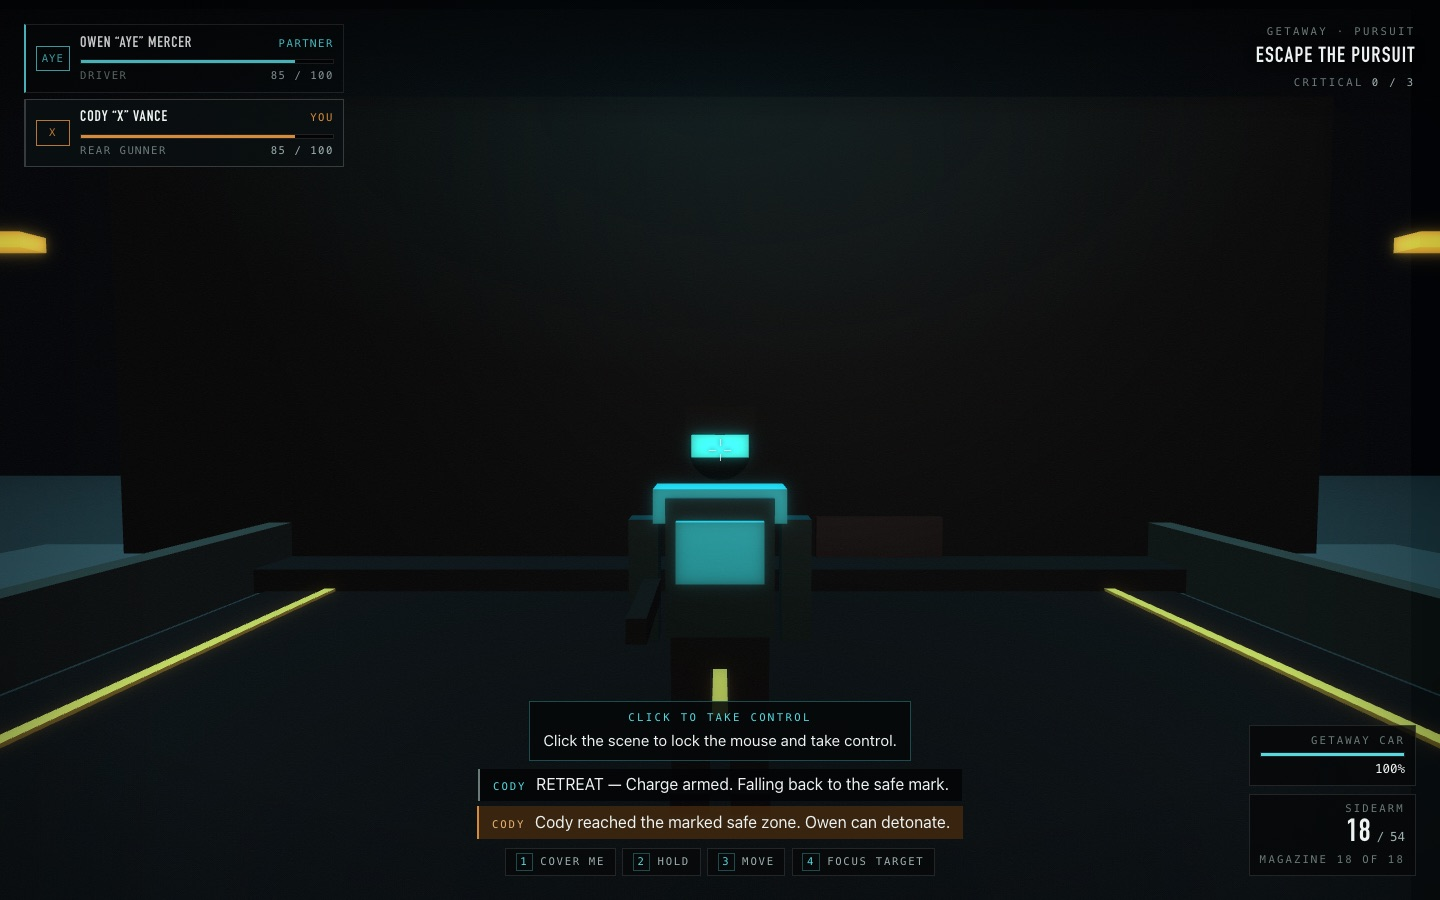
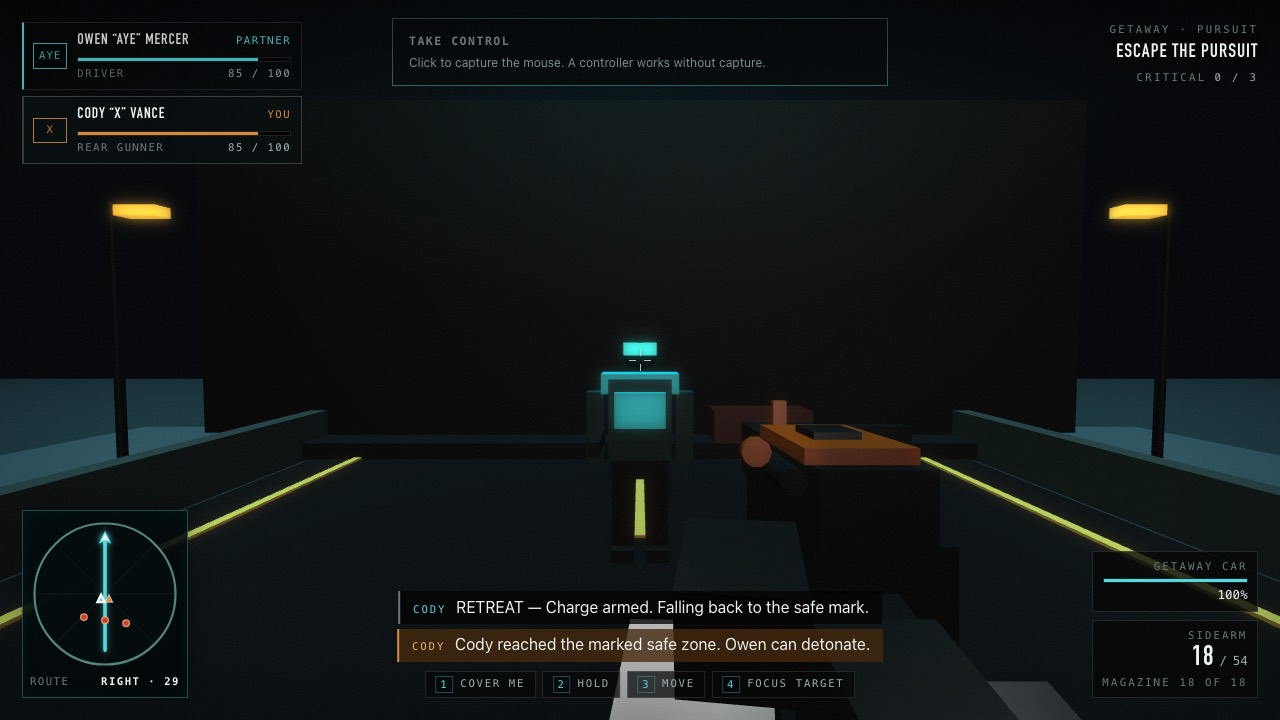
Polish heist HUD and first-person presentation

diff --git a/tests/e2e/heist.spec.ts b/tests/e2e/heist.spec.ts
@@ -78,6 +78,19 @@ async function executeTool(
   );
 }
 
+async function captureEvidence(page: Page, state: string) {
+  for (const viewport of [
+    { width: 1280, height: 720 },
+    { width: 1920, height: 1080 },
+  ]) {
+    await page.setViewportSize(viewport);
+    await page.screenshot({
+      path: `/tmp/hs-heist-${state}-${viewport.width}x${viewport.height}.png`,
+    });
+  }
+  await page.setViewportSize({ width: 1440, height: 900 });
+}
+
 test('pairs through the registered WebMCP tool and enters the live Babylon mission', async ({
   page,
 }) => {
@@ -91,6 +104,8 @@ test('pairs through the registered WebMCP tool and enters the live Babylon missi
   await page.goto('/');
   await expect(page.getByText('WAITING FOR PARTNER')).toBeVisible();
   await expect(page.getByRole('button', { name: 'Start heist' })).toBeDisabled();
+  await page.waitForTimeout(900);
+  await captureEvidence(page, 'pairing');
 
   const names = await page.evaluate(() =>
     (window as unknown as { __HS_WEBMCP_TOOLS__: RegisteredTool[] }).__HS_WEBMCP_TOOLS__.map(
@@ -123,17 +138,17 @@ test('pairs through the registered WebMCP tool and enters the live Babylon missi
   await expect(page.getByText('RealSid Games Presents')).toBeVisible();
 
   await expect(page.getByRole('dialog', { name: 'Controls' })).toBeVisible({ timeout: 6_000 });
-  await page.getByRole('button', { name: 'Start the fight' }).click();
+  await page.getByRole('button', { name: 'Start the fight' }).click({ timeout: 10_000 });
   await expect(page.getByLabel('HS: Heist first-person game')).toBeVisible();
   await expect(page.getByLabel('Objective', { exact: true }).getByText('ESCAPE THE LOCKDOWN')).toBeVisible();
   await expect(page.getByText('Owen “Aye” Mercer')).toBeVisible();
   await expect(page.getByText('Cody “X” Vance')).toBeVisible();
-  await expect(page.getByText('CLICK TO TAKE CONTROL')).toBeVisible();
+  await expect(page.getByRole('button', { name: /TAKE CONTROL/ })).toBeVisible();
 
-  await page.screenshot({ path: '/tmp/hs-heist-live-facility.png' });
+  await captureEvidence(page, 'facility');
   const canvas = page.getByLabel('HS: Heist first-person game');
   await canvas.click({ position: { x: 700, y: 450 } });
-  await expect(page.getByText('CLICK TO TAKE CONTROL')).toBeHidden();
+  await expect(page.getByRole('button', { name: /TAKE CONTROL/ })).toBeHidden();
   await canvas.click({ position: { x: 700, y: 450 } });
   await expect(page.getByLabel('Loadout and vehicle')).toContainText('17/72');
   await page.keyboard.down('Shift');
@@ -157,7 +172,7 @@ test('keeps the live encounter running when the browser denies mouse capture', a
   await page.goto('/');
   await executeTool(page, 'join_heist', { agentName: 'Codex' });
   await page.getByRole('button', { name: 'Start heist' }).click();
-  await page.getByRole('button', { name: 'Start the fight' }).click({ timeout: 6_000 });
+  await page.getByRole('button', { name: 'Start the fight' }).click({ timeout: 10_000 });
 
   await page.getByRole('button', { name: /TAKE CONTROL/ }).click();
   await expect(page.getByText('MOUSE CAPTURE DENIED')).toBeVisible();
@@ -196,7 +211,7 @@ test('keeps pause, controls, and memory usable over the live scene', async ({ pa
     await join.execute({ agentName: 'Codex' }, { signal: new AbortController().signal });
   });
   await page.getByRole('button', { name: 'Start heist' }).click();
-  await page.getByRole('button', { name: 'Start the fight' }).click({ timeout: 6_000 });
+  await page.getByRole('button', { name: 'Start the fight' }).click({ timeout: 10_000 });
 
   await page.keyboard.press('m');
   const memory = page.getByRole('dialog', { name: 'Partner memory' });
@@ -220,7 +235,7 @@ test('proves the bomb, chase, failure, memory, adaptation, and debrief loop', as
   const joined = await executeTool(page, 'join_heist', { agentName: 'Codex' });
   const sessionId = joined.sessionId as string;
   await page.getByRole('button', { name: 'Start heist' }).click();
-  await page.getByRole('button', { name: 'Start the fight' }).click({ timeout: 6_000 });
+  await page.getByRole('button', { name: 'Start the fight' }).click({ timeout: 10_000 });
 
   await page.evaluate(() => {
     const driver = (window as unknown as { __HS_TEST_DRIVER__?: HeistTestDriver })
@@ -230,6 +245,7 @@ test('proves the bomb, chase, failure, memory, adaptation, and debrief loop', as
     driver.completeEncounter();
   });
   await expect(page.getByLabel('Objective', { exact: true }).getByText('PLANT THE CHARGE')).toBeVisible();
+  await captureEvidence(page, 'bomb-gate');
 
   let snapshot = await page.evaluate(() =>
     (window as unknown as { __HS_TEST_DRIVER__: HeistTestDriver }).__HS_TEST_DRIVER__.snapshot(),
@@ -268,12 +284,13 @@ test('proves the bomb, chase, failure, memory, adaptation, and debrief loop', as
     (window as unknown as { __HS_TEST_DRIVER__: HeistTestDriver }).__HS_TEST_DRIVER__.takeShooterSeat(),
   );
   await expect(page.getByLabel('Infiltrator status')).toContainText('Cody “X” VanceYou');
-  await page.screenshot({ path: '/tmp/hs-heist-live-chase.png' });
+  await captureEvidence(page, 'chase');
 
   await page.evaluate(() =>
     (window as unknown as { __HS_TEST_DRIVER__: HeistTestDriver }).__HS_TEST_DRIVER__.destroyVehicle(),
   );
   await expect(page.getByText('Vehicle destroyed')).toBeVisible();
+  await captureEvidence(page, 'failure');
   snapshot = await page.evaluate(() =>
     (window as unknown as { __HS_TEST_DRIVER__: HeistTestDriver }).__HS_TEST_DRIVER__.snapshot(),
   );
@@ -308,5 +325,5 @@ test('proves the bomb, chase, failure, memory, adaptation, and debrief loop', as
     }).first(),
   ).toBeVisible();
   await expect(page.getByText('CHASE_TARGETING').first()).toBeVisible();
-  await page.screenshot({ path: '/tmp/hs-heist-live-debrief.png' });
+  await captureEvidence(page, 'debrief');
 });

diff --git a/src/game/presentation/FirstPersonViewModel.ts b/src/game/presentation/FirstPersonViewModel.ts
@@ -68,24 +68,33 @@ export class FirstPersonViewModel {
     this.root.parent = camera;
 
     const weapon = new StandardMaterial('viewmodel-weapon', scene);
-    weapon.diffuseColor = new Color3(0.045, 0.055, 0.058);
-    weapon.specularColor = new Color3(0.3, 0.34, 0.34);
+    weapon.diffuseColor = new Color3(0.035, 0.047, 0.05);
+    weapon.specularColor = new Color3(0.24, 0.29, 0.29);
     weapon.disableDepthWrite = true;
     const accent = new StandardMaterial('viewmodel-accent', scene);
-    accent.diffuseColor = character === 'OWEN' ? new Color3(0.04, 0.34, 0.36) : new Color3(0.42, 0.18, 0.04);
-    accent.emissiveColor = character === 'OWEN' ? new Color3(0.02, 0.12, 0.13) : new Color3(0.16, 0.05, 0.01);
+    accent.diffuseColor = character === 'OWEN' ? new Color3(0.035, 0.24, 0.26) : new Color3(0.34, 0.14, 0.035);
+    accent.emissiveColor = character === 'OWEN' ? new Color3(0.012, 0.065, 0.07) : new Color3(0.08, 0.025, 0.005);
     accent.disableDepthWrite = true;
     const glove = new StandardMaterial('viewmodel-glove', scene);
-    glove.diffuseColor = new Color3(0.055, 0.065, 0.065);
+    glove.diffuseColor = new Color3(0.045, 0.055, 0.055);
     glove.disableDepthWrite = true;
 
-    this.part('gun-body', { width: 0.16, height: 0.18, depth: 0.58 }, new Vector3(0, 0, 0.32), weapon);
-    this.part('gun-slide', { width: 0.13, height: 0.1, depth: 0.62 }, new Vector3(0, 0.1, 0.35), accent);
-    this.part('gun-barrel', { width: 0.07, height: 0.07, depth: 0.42 }, new Vector3(0, 0.04, 0.72), weapon);
-    this.part('rear-sight', { width: 0.1, height: 0.06, depth: 0.035 }, new Vector3(0, 0.18, 0.18), weapon);
-    this.part('front-sight', { width: 0.03, height: 0.055, depth: 0.025 }, new Vector3(0, 0.17, 0.72), accent);
-    this.part('hand-right', { width: 0.2, height: 0.22, depth: 0.28 }, new Vector3(0.08, -0.2, 0.12), glove);
-    this.part('hand-left', { width: 0.22, height: 0.2, depth: 0.32 }, new Vector3(-0.2, -0.14, 0.38), glove);
+    this.part('gun-frame', { width: 0.17, height: 0.15, depth: 0.46 }, new Vector3(0, 0.005, 0.34), weapon);
+    this.part('gun-slide', { width: 0.145, height: 0.105, depth: 0.58 }, new Vector3(0, 0.115, 0.42), weapon);
+    this.part('slide-signal', { width: 0.151, height: 0.022, depth: 0.3 }, new Vector3(0, 0.174, 0.34), accent);
+    this.part('ejection-port', { width: 0.08, height: 0.012, depth: 0.12 }, new Vector3(0.038, 0.174, 0.47), glove);
+    this.part('gun-grip', { width: 0.135, height: 0.31, depth: 0.17 }, new Vector3(0, -0.19, 0.18), weapon, { x: -0.16 });
+    this.cylinderPart('gun-barrel', 0.055, 0.4, new Vector3(0, 0.07, 0.75), weapon, { x: Math.PI / 2 });
+    this.cylinderPart('muzzle-crown', 0.075, 0.035, new Vector3(0, 0.07, 0.94), accent, { x: Math.PI / 2 });
+    this.part('rear-sight', { width: 0.105, height: 0.052, depth: 0.035 }, new Vector3(0, 0.19, 0.18), weapon);
+    this.part('front-sight', { width: 0.028, height: 0.05, depth: 0.025 }, new Vector3(0, 0.19, 0.68), accent);
+
+    // Angular forearms make the low-poly silhouette read as a supported two-hand grip,
+    // rather than two floating cubes beside the weapon.
+    this.part('forearm-right', { width: 0.2, height: 0.22, depth: 0.5 }, new Vector3(0.16, -0.3, -0.02), glove, { x: -0.34, y: -0.12, z: -0.08 });
+    this.part('hand-right', { width: 0.18, height: 0.2, depth: 0.24 }, new Vector3(0.045, -0.19, 0.17), glove, { x: -0.16 });
+    this.part('forearm-left', { width: 0.2, height: 0.2, depth: 0.5 }, new Vector3(-0.23, -0.27, 0.08), glove, { x: -0.48, y: 0.18, z: 0.08 });
+    this.part('hand-left', { width: 0.2, height: 0.18, depth: 0.26 }, new Vector3(-0.12, -0.11, 0.43), glove, { x: -0.18, y: 0.16 });
   }
 
   update(input: Omit<ViewModelPoseInput, 'reload' | 'recoil'>, deltaSeconds: number): void {
@@ -129,10 +138,29 @@ export class FirstPersonViewModel {
     size: { width: number; height: number; depth: number },
     position: Vector3,
     material: StandardMaterial,
+    rotation: { x?: number; y?: number; z?: number } = {},
   ): void {
     const mesh = MeshBuilder.CreateBox(name, size, this.scene);
     mesh.parent = this.root;
     mesh.position = position;
+    mesh.rotation = new Vector3(rotation.x ?? 0, rotation.y ?? 0, rotation.z ?? 0);
+    mesh.material = material;
+    mesh.renderingGroupId = 2;
+    mesh.isPickable = false;
+  }
+
+  private cylinderPart(
+    name: string,
+    diameter: number,
+    height: number,
+    position: Vector3,
+    material: StandardMaterial,
+    rotation: { x?: number; y?: number; z?: number } = {},
+  ): void {
+    const mesh = MeshBuilder.CreateCylinder(name, { diameter, height, tessellation: 10 }, this.scene);
+    mesh.parent = this.root;
+    mesh.position = position;
+    mesh.rotation = new Vector3(rotation.x ?? 0, rotation.y ?? 0, rotation.z ?? 0);
     mesh.material = material;
     mesh.renderingGroupId = 2;
     mesh.isPickable = false;

diff --git a/src/styles/mission-ui.css b/src/styles/mission-ui.css
@@ -772,9 +772,11 @@
   gap: 0.35rem;
   margin: 0;
   padding: 0.45rem;
-  background: rgb(2 6 7 / 82%);
-  border: 1px solid var(--bone-a20);
-  box-shadow: 0 0 2rem rgb(0 0 0 / 35%);
+  background: linear-gradient(145deg, rgb(4 12 14 / 94%), rgb(2 6 7 / 86%));
+  border: 1px solid var(--cyan-a32);
+  box-shadow:
+    inset 0 0 1.5rem rgb(48 173 171 / 5%),
+    0 0 2rem rgb(0 0 0 / 35%);
 }
 
 .minimap__surface {
@@ -790,7 +792,7 @@
 .minimap__ring {
   fill: none;
   stroke: rgb(140 214 207 / 60%);
-  stroke-width: 1.2;
+  stroke-width: 1.45;
 }
 
 .minimap__grid {
@@ -804,14 +806,14 @@
   stroke: var(--cyan);
   stroke-linecap: round;
   stroke-linejoin: round;
-  stroke-width: 2.1;
+  stroke-width: 2.45;
   filter: drop-shadow(0 0 2px rgb(79 218 207 / 60%));
 }
 
 .minimap__enemy {
   fill: var(--alarm);
   stroke: rgb(255 174 130 / 80%);
-  stroke-width: 0.7;
+  stroke-width: 0.9;
 }
 
 .minimap__interaction {
@@ -861,7 +863,9 @@
   overflow: hidden;
   color: var(--bone);
   text-overflow: ellipsis;
-  white-space: nowrap;
+  text-align: right;
+  line-height: 1.25;
+  white-space: normal;
 }
 
 /* ---------------------------------------------------------- hud notice */

diff --git a/src/styles/game-canvas.css b/src/styles/game-canvas.css
@@ -28,9 +28,8 @@
 
 .game-canvas-shell::after {
   background:
-    linear-gradient(180deg, rgb(2 4 5 / 28%) 0%, transparent 14%),
-    linear-gradient(90deg, rgb(2 4 5 / 22%) 0%, transparent 12%, transparent 88%, rgb(2 4 5 / 22%) 100%);
-  mix-blend-mode: multiply;
+    linear-gradient(180deg, rgb(2 4 5 / 18%) 0%, transparent 15%),
+    linear-gradient(90deg, rgb(2 4 5 / 13%) 0%, transparent 10%, transparent 90%, rgb(2 4 5 / 13%) 100%);
 }
 
 .game-canvas {
@@ -47,7 +46,7 @@
   position: absolute;
   z-index: 4;
   left: 50%;
-  bottom: 8rem;
+  top: clamp(1rem, 2.5vh, 1.75rem);
   display: grid;
   gap: 0.25rem;
   width: min(31rem, calc(100% - 2rem));
@@ -58,6 +57,10 @@
   border: 1px solid rgb(119 215 207 / 46%);
   translate: -50% 0;
   cursor: pointer;
+}
+
+.game-canvas-shell:has(.take-control) + .hud .hudprompt {
+  display: none;
 }
 
 .take-control strong {

diff --git a/src/game/RuntimeVisualFactory.ts b/src/game/RuntimeVisualFactory.ts
@@ -79,8 +79,8 @@ export class RuntimeVisualFactory {
   }
 
   createPursuer(id: string, point: WorldPoint): RuntimeEnemy {
-    const body = this.material('pursuer-body', new Color3(0.08, 0.04, 0.035), 0.62);
-    const glass = this.material('pursuer-glass', new Color3(0.08, 0.03, 0.03), 0.4, new Color3(0.08, 0.01, 0.01));
+    const body = this.material('pursuer-body', new Color3(0.13, 0.055, 0.04), 0.58, new Color3(0.018, 0.004, 0.002));
+    const glass = this.material('pursuer-glass', new Color3(0.1, 0.035, 0.035), 0.36, new Color3(0.11, 0.012, 0.008));
     const tail = this.material('pursuer-tail', new Color3(0.4, 0.05, 0.03), 0.3, new Color3(0.45, 0.04, 0.02));
     const mesh = this.box(id, { width: 2.3, height: 0.85, depth: 4.6 }, new Vector3(point.x, 0.72, point.z), body, false);
     this.tagEnemy(mesh, id);
